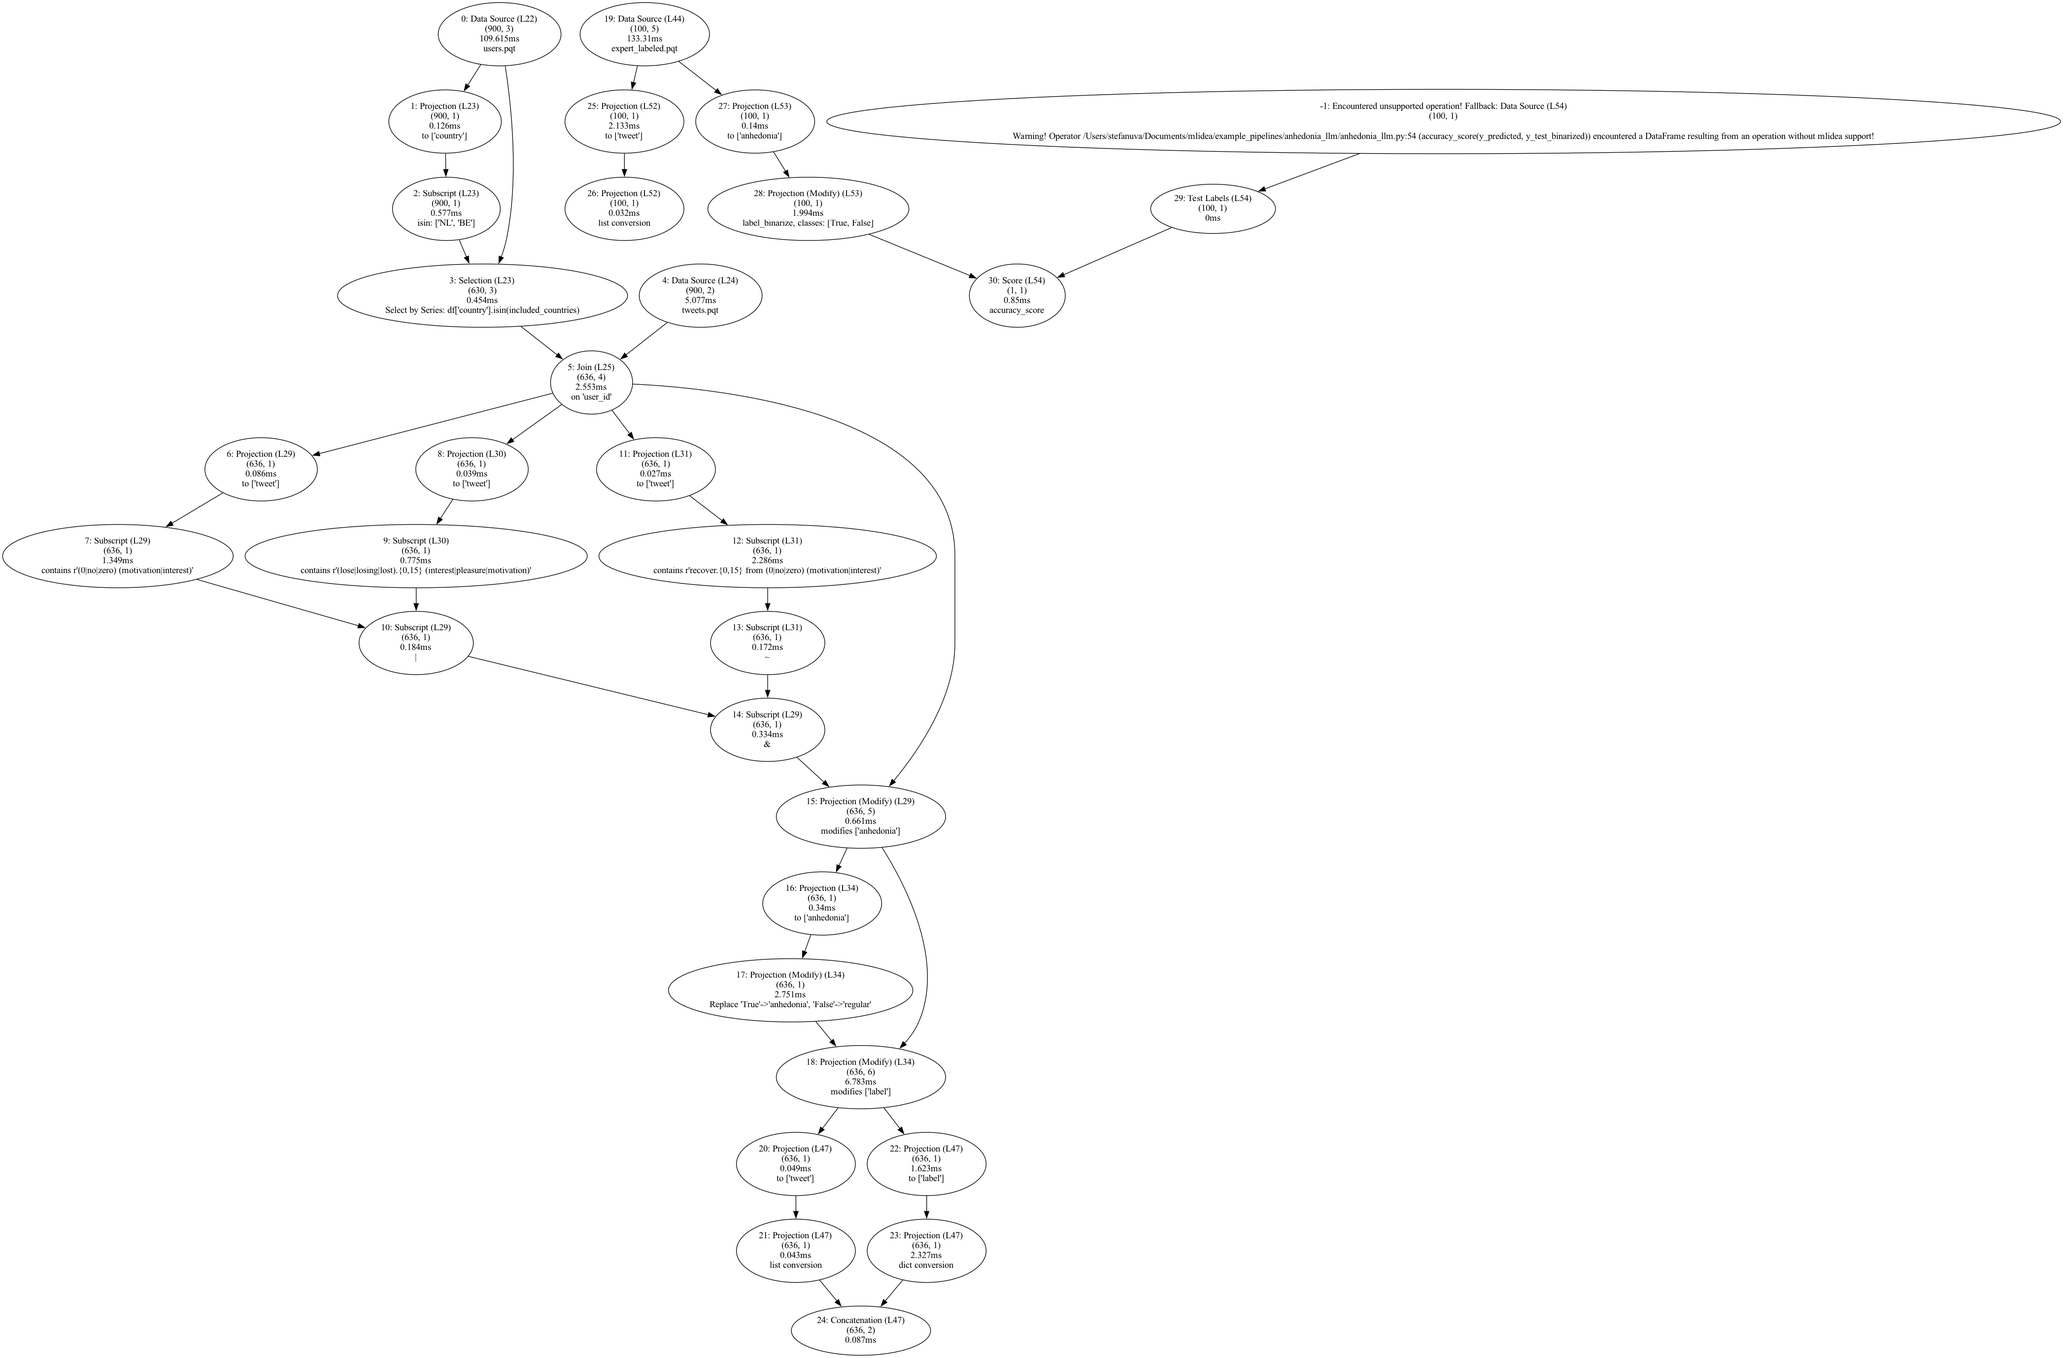
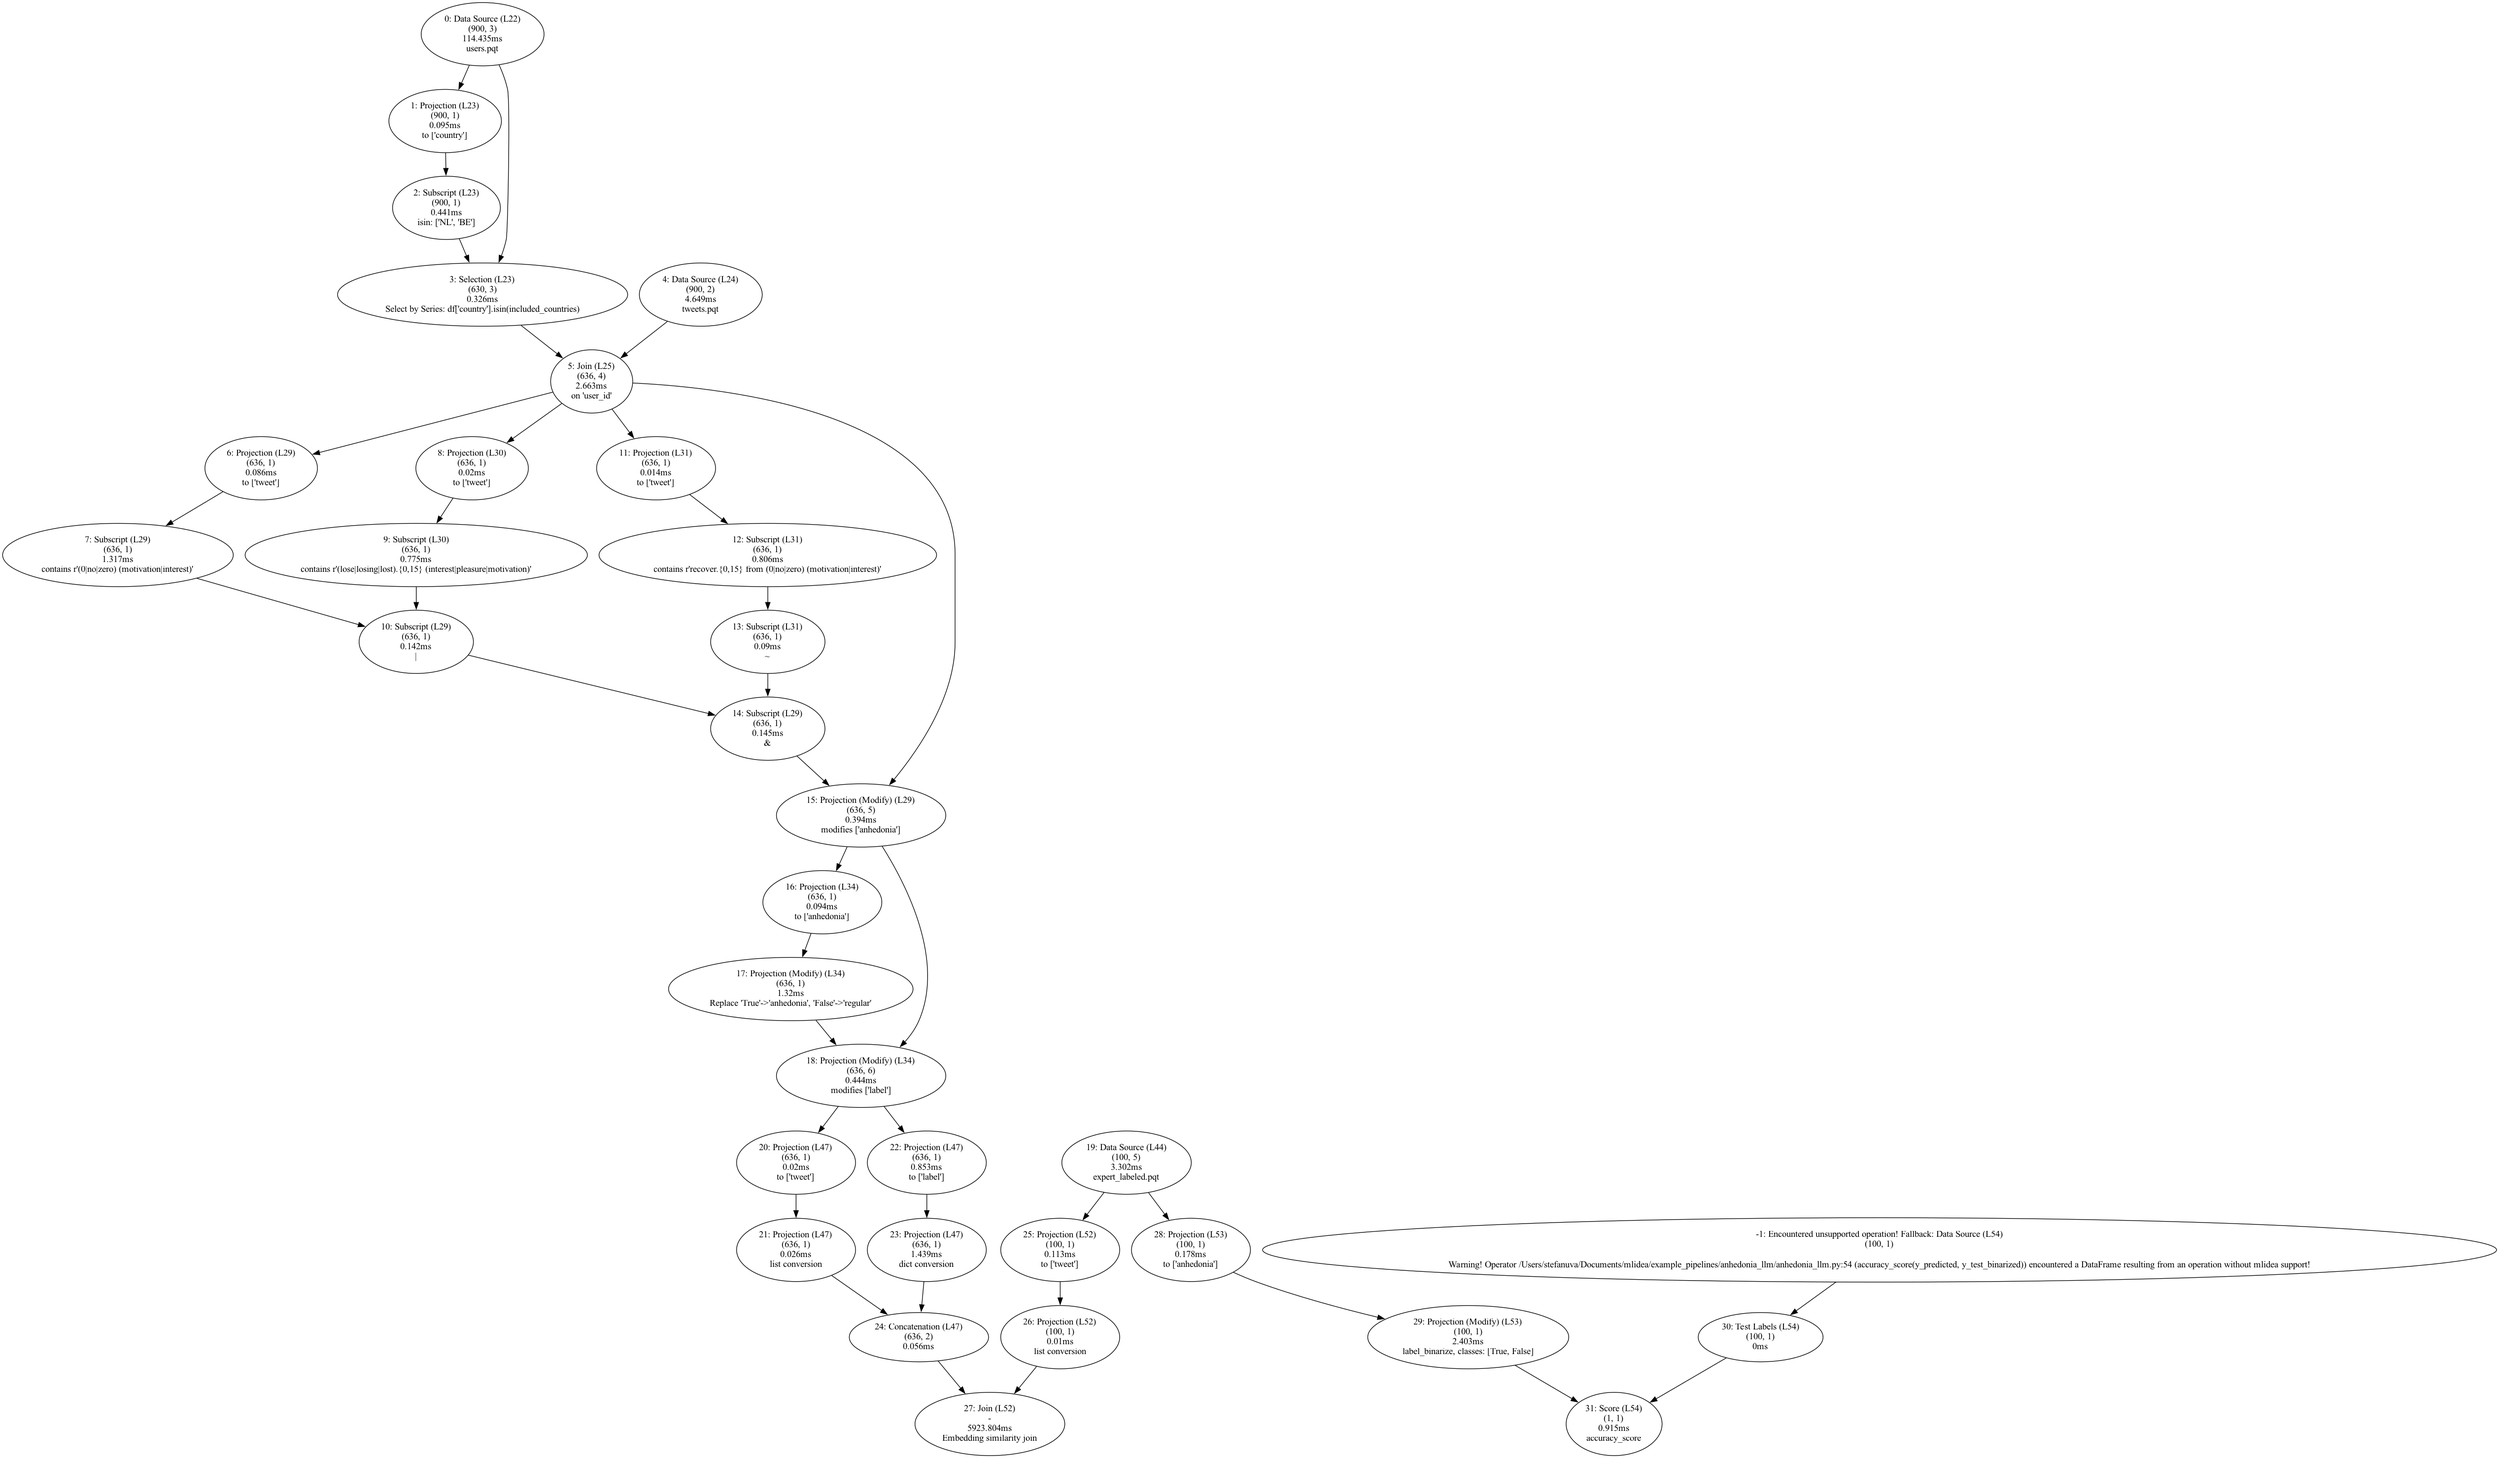
Embedding similarity join in DAG

diff --git a/mlidea/monkeypatching/_patch_langchain.py b/mlidea/monkeypatching/_patch_langchain.py
@@ -30,11 +30,13 @@ from langchain_core.beta.runnables.context import config_with_context
 from langchain_core.callbacks.manager import CallbackManager
 from langchain_core.vectorstores import VectorStoreRetriever
 
+from execution._pipeline_executor import singleton
 from execution._stat_tracking import capture_optimizer_info
 from mlidea import DagNode, BasicCodeLocation, DagNodeDetails, FunctionInfo, OperatorContext, OperatorType
 from monkeypatching._mlinspect_ndarray import MlideaChromaVectorStoreRetrieverPlaceHolder
 from monkeypatching._monkey_patching_utils import execute_patched_func, get_optional_code_info_or_none, \
-    FunctionCallResult, add_dag_node, get_input_info
+    FunctionCallResult, add_dag_node, get_input_info, execute_patched_func_indirect_allowed, \
+    execute_patched_func_indirect_allowed_with_op_id
 
 
 class LangchainCallInfo:
@@ -63,46 +65,47 @@ class RunnableSequencePatching:
                       *, return_exceptions: bool = False, **kwargs: Optional[Any]):
         original = gorilla.get_original_attribute(base.RunnableSequence, 'batch')
         if call_info_singleton.runnable_sequence_active is False:
-            call_info_singleton.runnable_sequence_active = True
-            # TODO: Now we can look for the retrieval step and create a DAG node for it and precompute the result
-            retriever_with_info = self.find_and_execute_retriever()
-            retriever_result = self.execute_retriever(inputs, retriever_with_info)
-            new_result = self.execute_langchain_batch_with_preexecuted_retriever(retriever_result, config, inputs,
-                                                                                 return_exceptions)
+            def execute_inspections(op_id, caller_filename, lineno, optional_code_reference, optional_source_code):
+                """ Execute inspections, add DAG node """
+                call_info_singleton.runnable_sequence_active = True
+                # TODO: Maybe use vectorstore info here and not the LLM info
+                function_info = FunctionInfo('langchain_core.runnables.base', 'batch')
+                retriever_with_info = self.find_retriever()
+                input_info_a = get_input_info(retriever_with_info[3], caller_filename, lineno, function_info,
+                                              optional_code_reference, optional_source_code)
+                input_info_b = get_input_info(inputs, caller_filename, lineno, function_info,
+                                              optional_code_reference, optional_source_code)
+                operator_context = OperatorContext(OperatorType.JOIN, function_info)
 
-            # def execute_inspections(op_id, caller_filename, lineno, optional_code_reference, optional_source_code):
-            #     """ Execute inspections, add DAG node """
-            #     function_info = FunctionInfo('sklearn.preprocessing._label', 'label_binarize')
-            #     input_info = get_input_info(args[0], caller_filename, lineno, function_info, optional_code_reference,
-            #                                 optional_source_code)
-            #
-            #     operator_context = OperatorContext(OperatorType.PROJECTION_MODIFY, function_info)
-            #     initial_func = partial(original, input_info.annotated_dfobject.result_data, *args[1:], **kwargs)
-            #     optimizer_info, result = capture_optimizer_info(initial_func)
-            #     processing_func = lambda df: original(df, *args[1:], **kwargs)
-            #
-            #     classes = kwargs['classes']
-            #     description = f"label_binarize, classes: {classes}"
-            #     dag_node = DagNode(op_id,
-            #                        BasicCodeLocation(caller_filename, lineno),
-            #                        operator_context,
-            #                        DagNodeDetails(description, ["array"], optimizer_info),
-            #                        get_optional_code_info_or_none(optional_code_reference, optional_source_code),
-            #                        processing_func)
-            #     function_call_result = FunctionCallResult(result)
-            #     add_dag_node(dag_node, [input_info.dag_node], function_call_result)
-            #     new_result = function_call_result.function_result
-            #
-            #     return new_result
+                processing_func = partial(self.execute_retriever, inputs, retriever_with_info)
+                optimizer_info, result = capture_optimizer_info(processing_func)
+                description = "Embedding similarity join"
+                dag_node = DagNode(op_id,
+                                   BasicCodeLocation(caller_filename, lineno),
+                                   operator_context,
+                                   DagNodeDetails(description, ["array"], optimizer_info),
+                                   get_optional_code_info_or_none(optional_code_reference, optional_source_code),
+                                   processing_func)
+                function_call_result = FunctionCallResult(result)
+                add_dag_node(dag_node, [input_info_a.dag_node, input_info_b.dag_node], function_call_result)
+                embedding_join_result = function_call_result.function_result
 
-            call_info_singleton.runnable_sequence_active = False
+                # TODO: Create second LLM node
+                new_result = self.execute_langchain_batch_with_preexecuted_retriever(embedding_join_result, config,
+                                                                                     inputs, return_exceptions)
+                call_info_singleton.runnable_sequence_active = False
+
+                return new_result
+
+            new_result = execute_patched_func_indirect_allowed_with_op_id(execute_inspections)
+
         else:
             new_result = original(self, inputs, config, return_exceptions=return_exceptions, **kwargs)
         return new_result
 
     @staticmethod
     def execute_retriever(inputs, retriever_with_info):
-        retriever_step_index, retriever_sub_step_name, retriever_sub_step = retriever_with_info
+        retriever_step_index, retriever_sub_step_name, retriever_sub_step, _ = retriever_with_info
         retrieval_results = inputs
         if retrieval_results:
             for child_sequence_step in retriever_sub_step.steps:
@@ -115,7 +118,7 @@ class RunnableSequencePatching:
         found_retriever = (retriever_step_index, retriever_sub_step_name, retrieval_results)
         return found_retriever
 
-    def find_and_execute_retriever(self):
+    def find_retriever(self):
         found_retriever = None
         for step_index, step in enumerate(self.steps):
             if isinstance(step, BaseRetriever):
@@ -135,7 +138,7 @@ class RunnableSequencePatching:
                             if step_index != 0:
                                 raise NotImplementedError(
                                     "Only Retrievers at the beginning of langchain pipeliens are supported currently!")
-                            return step_index, child_sequence[0], child_sequence[1]
+                            return step_index, child_sequence[0], child_sequence[1], child_sequence_step
                 raise ValueError("Only langchain pipelines with a retrieval step are supported currently!")
         return found_retriever
 

diff --git a/mlidea/monkeypatching/_monkey_patching_utils.py b/mlidea/monkeypatching/_monkey_patching_utils.py
@@ -6,6 +6,8 @@ import dataclasses
 import sys
 
 import numpy
+from langchain_core.retrievers import BaseRetriever
+from langchain_core.runnables import RunnableSequence
 from pandas import DataFrame, Series
 from scipy.sparse import csr_matrix
 
@@ -15,7 +17,8 @@ from mlidea.execution import _pipeline_executor
 from mlidea.instrumentation._dag_node import DagNode, CodeReference, BasicCodeLocation, DagNodeDetails, \
     OptionalCodeInfo, OptimizerInfo
 from mlidea.execution._pipeline_executor import singleton
-from mlidea.monkeypatching._mlinspect_ndarray import MlinspectNdarray, MlinspectList, MlinspectDict
+from mlidea.monkeypatching._mlinspect_ndarray import MlinspectNdarray, MlinspectList, MlinspectDict, \
+    MlideaChromaVectorStoreRetrieverPlaceHolder, MlinspectTuple
 
 
 @dataclasses.dataclass(frozen=False)
@@ -175,6 +178,43 @@ def execute_patched_func_indirect_allowed(execute_inspections_func):
     return result
 
 
+def execute_patched_func_indirect_allowed_with_op_id(execute_inspections_func):
+    """
+    Detects whether the function call comes directly from user code and decides whether to execute the original
+    function or the patched variant.
+    """
+    # Performance aspects: https://gist.github.com/JettJones/c236494013f22723c1822126df944b12
+    # CPython implementation detail: This function should be used for internal and specialized purposes only.
+    #  It is not guaranteed to exist in all implementations of Python.
+    #  inspect.getcurrentframe() also only does return `sys._getframe(1) if hasattr(sys, "_getframe") else None`
+    #  We can execute one hasattr check right at the beginning of the mlidea execution
+
+    frame = sys._getframe(2)
+    while frame.f_code.co_filename != singleton.source_code_path:
+        frame = frame.f_back
+
+    caller_filename = frame.f_code.co_filename
+
+    if singleton.track_code_references:
+        call_ast_node = ast.Call(lineno=singleton.lineno_next_call_or_subscript,
+                                 col_offset=singleton.col_offset_next_call_or_subscript,
+                                 end_lineno=singleton.end_lineno_next_call_or_subscript,
+                                 end_col_offset=singleton.end_col_offset_next_call_or_subscript)
+        caller_source_code = ast.get_source_segment(singleton.source_code, node=call_ast_node)
+        caller_lineno = singleton.lineno_next_call_or_subscript
+        op_id = singleton.get_next_op_id()
+        caller_code_reference = CodeReference(singleton.lineno_next_call_or_subscript,
+                                              singleton.col_offset_next_call_or_subscript,
+                                              singleton.end_lineno_next_call_or_subscript,
+                                              singleton.end_col_offset_next_call_or_subscript)
+        result = execute_inspections_func(op_id, caller_filename, caller_lineno, caller_code_reference,
+                                          caller_source_code)
+    else:
+        caller_lineno = sys._getframe(2).f_lineno
+        result = execute_inspections_func(-1, caller_filename, caller_lineno, None, None)
+    return result
+
+
 def get_input_info(df_object, caller_filename, lineno, function_info, optional_code_reference, optional_source_code) \
         -> InputInfo:
     """
@@ -215,6 +255,8 @@ def get_column_names(df_object):
         columns = [df_object.name]
     elif isinstance(df_object, (csr_matrix, numpy.ndarray, list)):
         columns = ['array']
+    elif isinstance(df_object, BaseRetriever):
+        columns = df_object.columns()
     else:
         raise NotImplementedError(f"TODO: Type: '{type(df_object)}' still is not supported!")
     return columns
@@ -230,6 +272,8 @@ def wrap_in_mlinspect_array_if_necessary(df_object):
         df_object = MlinspectList(df_object)
     elif isinstance(df_object, dict):
         df_object = MlinspectDict(df_object)
+    elif isinstance(df_object, tuple):
+        df_object = MlinspectTuple(df_object)
     return df_object
 
 

diff --git a/mlidea/monkeypatching/_patch_pandas.py b/mlidea/monkeypatching/_patch_pandas.py
@@ -426,7 +426,6 @@ class DataFramePatching:
             input_info_b = get_input_info(right_df, caller_filename, lineno, function_info, optional_code_reference,
                                           optional_source_code)
             operator_context = OperatorContext(OperatorType.JOIN, function_info)
-            # No input_infos copy needed because it's only a selection and the rows not being removed don't change
             initial_func = partial(original, input_info_a.annotated_dfobject.result_data,
                                    input_info_b.annotated_dfobject.result_data,
                                    *args[args_start_index:],

diff --git a/mlidea/monkeypatching/_mlinspect_ndarray.py b/mlidea/monkeypatching/_mlinspect_ndarray.py
@@ -19,9 +19,16 @@ class MlinspectList(list):
 
 
 class MlinspectDict(dict):
-    """A list wrapper that can store mlinspect annotations"""
+    """A dict wrapper that can store mlinspect annotations"""
     _mlinspect_dag_node = None
     _mlinspect_annotation = None
+
+
+class MlinspectTuple(tuple):
+    """A tuple wrapper that can store mlinspect annotations"""
+    _mlinspect_dag_node = None
+    _mlinspect_annotation = None
+
 
 class MlinspectNdarray(numpy.ndarray):
     """
